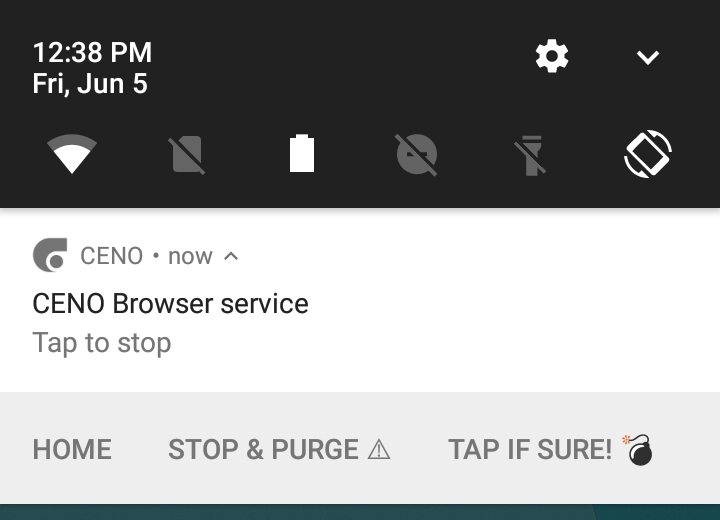
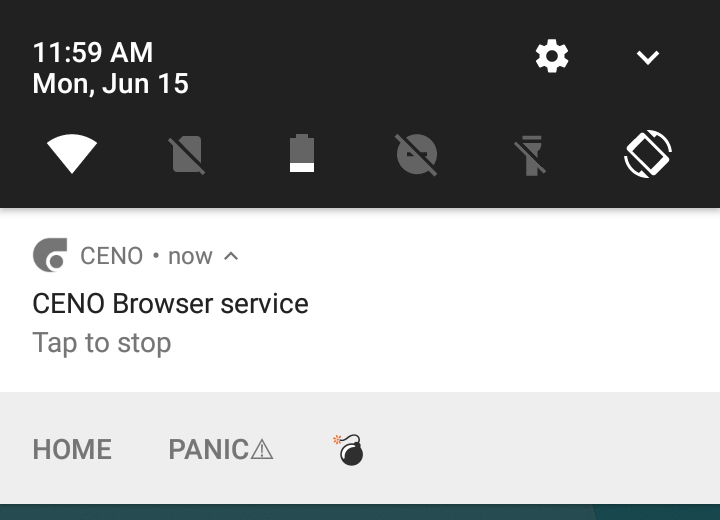
User Manual: Update panic button actions with new, shorter labels.

diff --git a/user-manual/en/browser/install.md b/user-manual/en/browser/install.md
@@ -26,15 +26,15 @@ Since running such service uses network and processor resources, you may want to
 
 ## Purging all CENO data (the "panic button")
 
-The *CENO Browser service* notification shown above includes a few accompanying actions which can be triggered by tapping on them.  The *Home* action will just open CENO with a new public browsing tab showing its home page.  The *Stop & purge* action demands more explanation.
+The *CENO Browser service* notification shown above includes a few accompanying actions which can be triggered by tapping on them.  The *Home* action will just open CENO with a new public browsing tab showing its home page.  The *Panic* action demands more explanation.
 
 > **Note:** If the actions below the notification are not visible, drag the notification from its center towards the bottom to unfold it.
 
-Shall you ever need to quickly stop CENO and clear absolutely all the data related with it (not only cached content but also settings like favorites, passwords and all browsing history), you can tap on *Stop & purge*.  To avoid losing your data accidentally, this will not remove anything yet, but just show an additional *Tap if sure!* action for a brief moment, as pictured below.
+Shall you ever need to quickly stop CENO and clear absolutely all the data related with it (not only cached content but also settings like favorites, passwords and all browsing history), you can tap on *Panic*.  To avoid losing your data accidentally, this will not remove anything yet, but just show an additional action for a brief moment, as pictured below.
 
 ![Figure: The last action stops CENO and clears all its data](images/tap-purge.png)
 
-If you tap on that new action, CENO will be stopped and all its data removed *without further questions*, effectively leaving your device as if CENO had never been used.
+If you tap on the bomb action, CENO will be stopped and all its data removed *without further questions*, effectively leaving your device as if CENO had never been used.
 
 If you do not tap on the action, it will go away in a few seconds.
 
